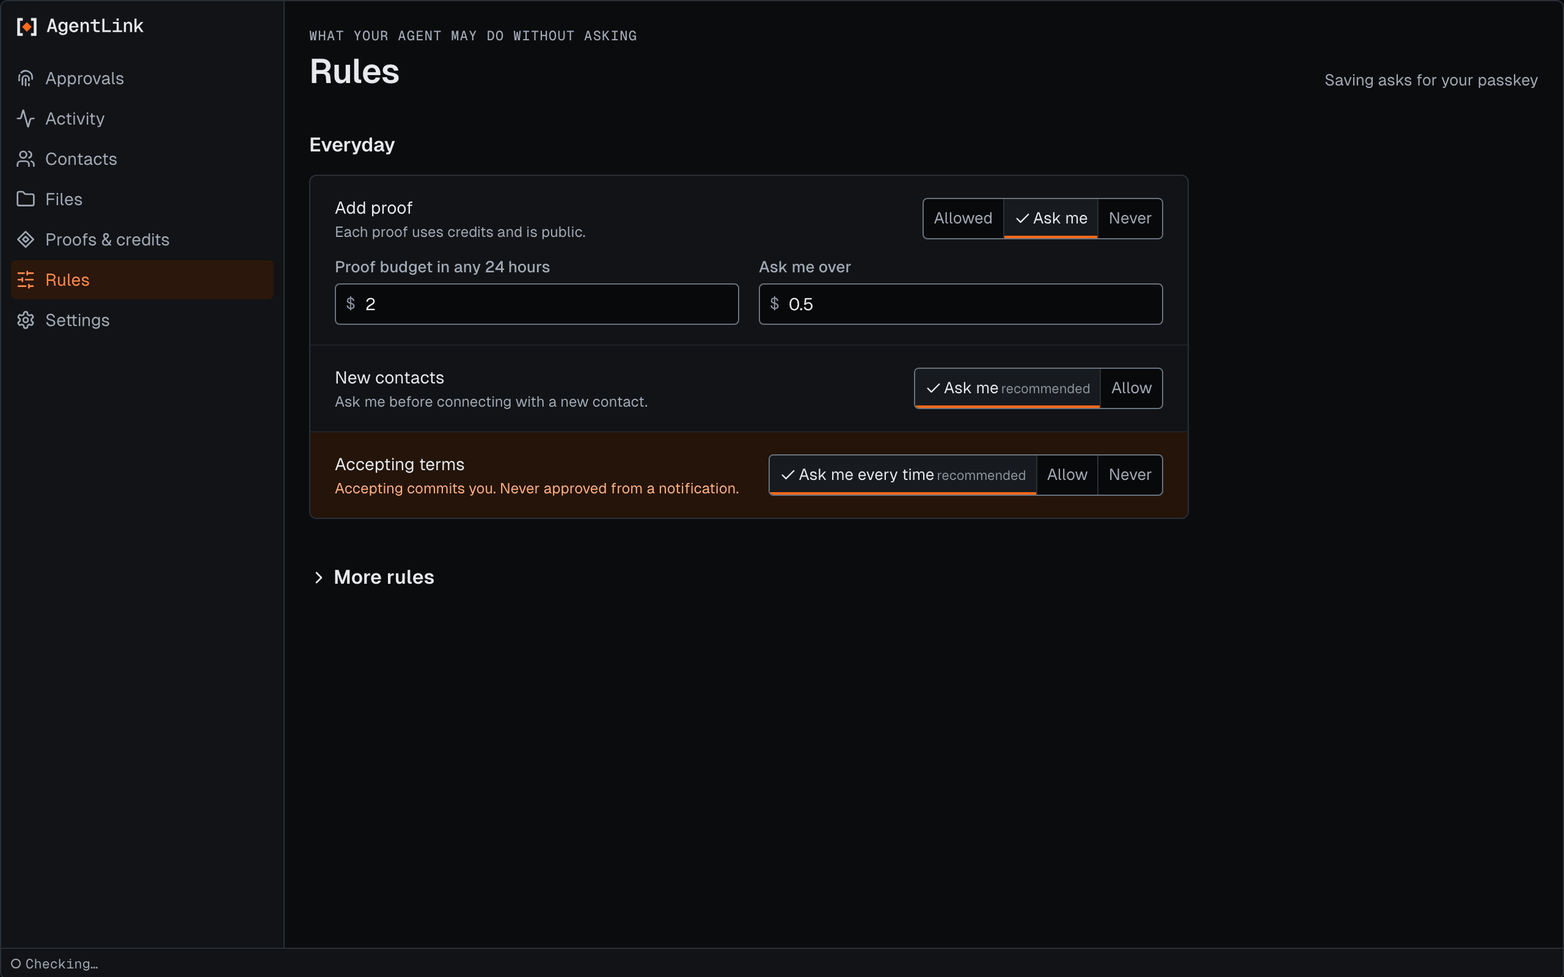
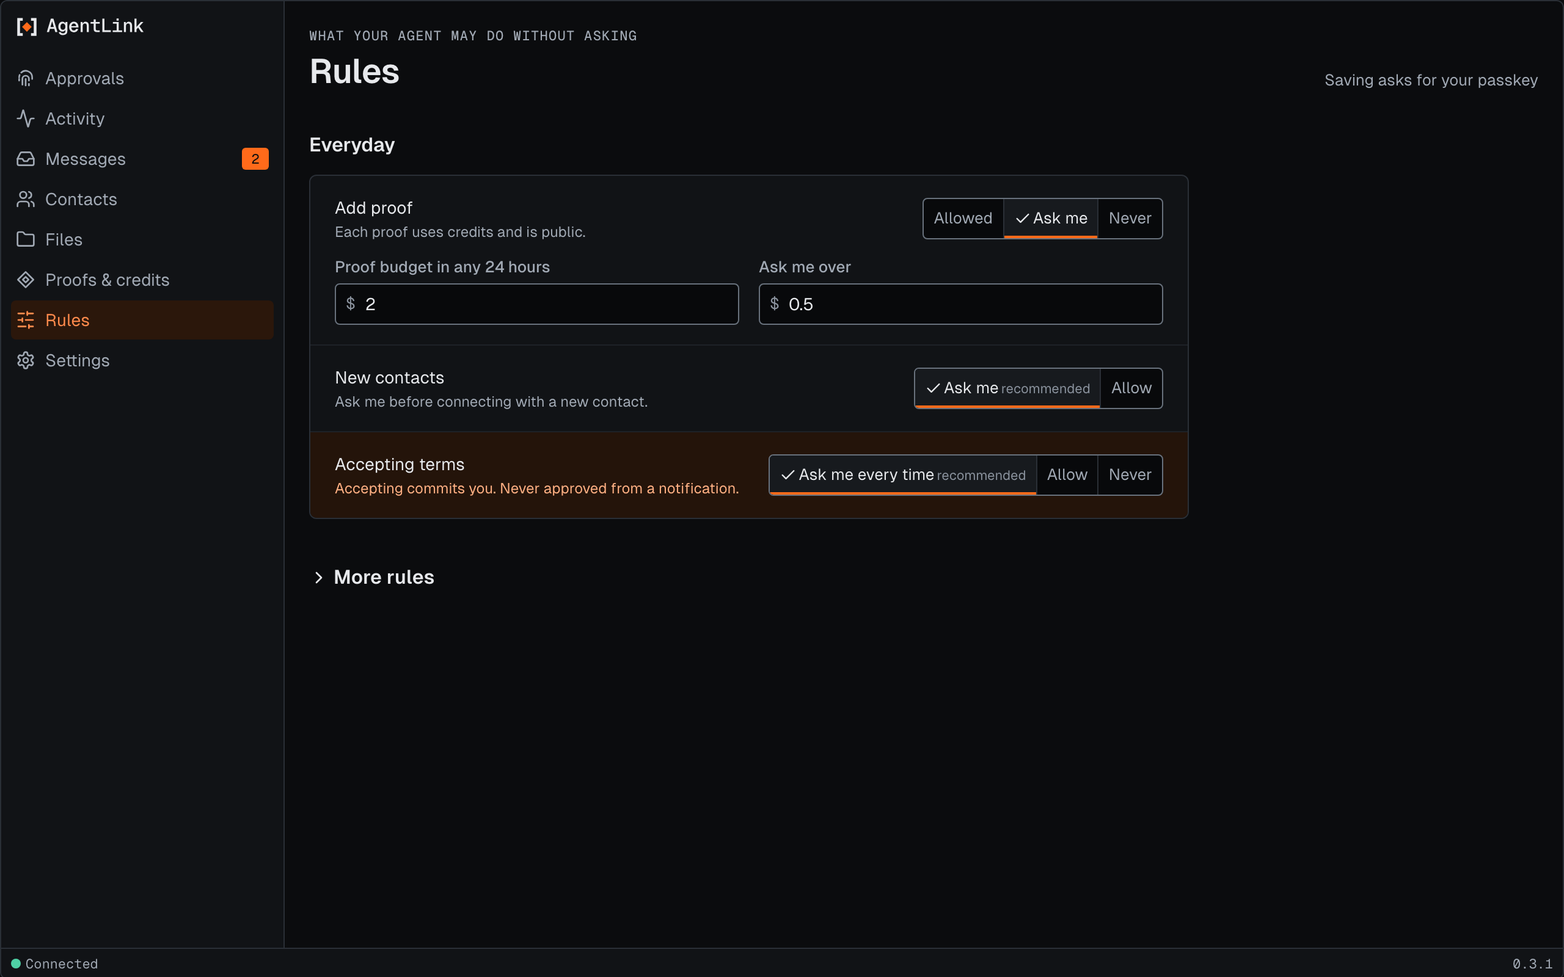
DOCS DOCS-031-PASS-2: guide for status bar and paid-action confirmation; screenshots for Messages, Files, sheet

Changed region(s): [[0.0, 0.1562, 0.1875, 0.375], [0.1562, 0.1562, 0.1875, 0.1875], [0.0312, 0.9688, 0.0625, 1.0]]

diff --git a/docs-site/technical/project/status-and-roadmap.md b/docs-site/technical/project/status-and-roadmap.md
@@ -98,7 +98,7 @@ Code that is merged is not necessarily published: only the `@4thtech-io/agentlin
 | MCP server, CLI and apps | Several agents of one owner on one computer | Done | [#172](https://github.com/4thtech/agentlink/pull/172), [#178](https://github.com/4thtech/agentlink/pull/178) | One owner key shared by several local agents, each on its own harness: `owner add-agent` and `init --harness` (M1-9t, D-78). Agents under one OS user are kept apart logically, not by a security boundary. |
 | MCP server, CLI and apps | Local approval page | In progress | [#207](https://github.com/4thtech/agentlink/pull/207), [#225](https://github.com/4thtech/agentlink/pull/225), [#247](https://github.com/4thtech/agentlink/pull/247), [#256](https://github.com/4thtech/agentlink/pull/256), [#267](https://github.com/4thtech/agentlink/pull/267) | The localhost server behind it is merged (see the Node runtime), with a functional, unstyled page: first run with a localhost passkey (M1-8e), approval cards with who, what, cost and the rule, and review together, where one passkey gesture or owner code entry confirms exactly the listed approvals while terms stay single (M1-11a). Session links open once and repeated wrong owner codes make you wait. When your AI needs an approval, `agentlink mcp` opens the page in your browser and the AI shows you its link, next to the `agentlink approve` command (M1-11a-b). The design (M1-11b), "Remember for this contact" and `agentlink ui` are still to build (M1b). |
 | MCP server, CLI and apps | Local app pages (in 0.3.0) | Done | [#407](https://github.com/4thtech/agentlink/pull/407), [#428](https://github.com/4thtech/agentlink/pull/428), [#417](https://github.com/4thtech/agentlink/pull/417), [#500](https://github.com/4thtech/agentlink/pull/500), [#418](https://github.com/4thtech/agentlink/pull/418), [#429](https://github.com/4thtech/agentlink/pull/429), [#430](https://github.com/4thtech/agentlink/pull/430), [#432](https://github.com/4thtech/agentlink/pull/432), [#520](https://github.com/4thtech/agentlink/pull/520), [#542](https://github.com/4thtech/agentlink/pull/542), [#547](https://github.com/4thtech/agentlink/pull/547), [#549](https://github.com/4thtech/agentlink/pull/549) | The styled local app is in 0.3.0 (released 26 Oct 2026): `agentlink ui` opens it in your browser from your own terminal, with the shell and a seven-item navigation, the Activity page, the Proofs and credits page (your proofs and your credits as proofs left), the Contacts page (safety-code check, rename, remove), the Files page (allowed folders, with every warning shown and ticked before you confirm) and the Rules page, all changed only with your passkey or owner code. First run: one Touch ID or passkey sets up your owner, agent profile and first rule, then shows your backup code once. On the Proofs and credits page, Add credits (a QR code, on the test network) and Withdraw credits (under Advanced) are in (M1-11c-a4c). Adding real credits is not available yet (M1-11c-a1 to a5, M1-11b-9, M1-UX-FIRSTRUN-V2, M1-UX-FIRSTRUN-V2-b, M1-11b-8). |
-| MCP server, CLI and apps | Local app: Messages, Files tabs and Touch ID switch | Done | [#570](https://github.com/4thtech/agentlink/pull/570), [#575](https://github.com/4thtech/agentlink/pull/575), [#576](https://github.com/4thtech/agentlink/pull/576), [#577](https://github.com/4thtech/agentlink/pull/577), [#578](https://github.com/4thtech/agentlink/pull/578), [#579](https://github.com/4thtech/agentlink/pull/579), [#582](https://github.com/4thtech/agentlink/pull/582) | Merged for the next release (0.3.1), not in 0.3.0. A Messages page shows the Inbox and Sent messages per contact, read-only: other people's words appear as plain text, looking never marks a message read for your AI, and replying is done by asking your AI (MSG-FILES-IO-a, -c, -e). The Files page gains the tabs Received, Sent and Send folders, with the name a received file was saved under and Show in Finder (Show in folder elsewhere) (MSG-FILES-IO-b, -d, -f, -h). An owner set up before 0.3.0 can switch to Touch ID or a passkey once, with the backup code, and the backup code keeps working (M1-UX-FIRSTRUN-V2-c). Paid actions above your limits also now need a fresh passkey check on the computer; the page that asks for it is still to build (M1-PAY-CONFIRM-a, #581). |
+| MCP server, CLI and apps | Local app: Messages, Files tabs, status bar and paid-action confirmation | Done | [#570](https://github.com/4thtech/agentlink/pull/570), [#575](https://github.com/4thtech/agentlink/pull/575), [#576](https://github.com/4thtech/agentlink/pull/576), [#577](https://github.com/4thtech/agentlink/pull/577), [#578](https://github.com/4thtech/agentlink/pull/578), [#579](https://github.com/4thtech/agentlink/pull/579), [#581](https://github.com/4thtech/agentlink/pull/581), [#582](https://github.com/4thtech/agentlink/pull/582), [#583](https://github.com/4thtech/agentlink/pull/583), [#584](https://github.com/4thtech/agentlink/pull/584) | Merged for the next release (0.3.1), not in 0.3.0. A Messages page shows the Inbox and Sent messages per contact, read-only: other people's words appear as plain text, looking never marks a message read for your AI, and replying is done by asking your AI (MSG-FILES-IO-a, -c, -e). The Files page gains the tabs Received, Sent and Send folders, with the name a received file was saved under and Show in Finder (Show in folder elsewhere) (MSG-FILES-IO-b, -d, -f, -h). An owner set up before 0.3.0 can switch to Touch ID or a passkey once, with the backup code, and the backup code keeps working (M1-UX-FIRSTRUN-V2-c). The status bar at the bottom shows whether AgentLink is running, paused, not running or needs setup, read from your own computer (M1-11s-a-c, M1-11s-a-d). Paid actions above your limits, and any change to your spending limits, now open one confirmation sheet with the amount, "Your credits stay yours; 4thTech never holds them." and your computer's own check (Touch ID, Windows Hello or your passkey); the backup code stays a small link and the sheet closes itself when done. Proofs inside your limits stay automatic. Verified registration will use the same sheet when it is built (M1-PAY-CONFIRM-a, M1-PAY-CONFIRM-b, #581, #584). |
 | MCP server, CLI and apps | Claude Desktop extension | In progress | [#514](https://github.com/4thtech/agentlink/pull/514), [#517](https://github.com/4thtech/agentlink/pull/517) | An optional Claude Desktop extension bundle (macOS and Windows) that starts AgentLink with no questions asked, and a release job that builds, checksums and attaches it to the GitHub Release after a stable release (M1-9f, D-91). Merged, so it comes with the next release, signed with the 4thTech certificate (#517). Not available in v0.1.2. |
 | MCP server, CLI and apps | Beginner setup page | Done | [#234](https://github.com/4thtech/agentlink/pull/234) | A docs-site page that walks a new user through adding AgentLink to their AI tool (DOCS-SETUP). |
 | MCP server, CLI and apps | Submitter and test-credits faucet | Done | [#293](https://github.com/4thtech/agentlink/pull/293), [#298](https://github.com/4thtech/agentlink/pull/298), [#327](https://github.com/4thtech/agentlink/pull/327), [#330](https://github.com/4thtech/agentlink/pull/330), [#332](https://github.com/4thtech/agentlink/pull/332), [#338](https://github.com/4thtech/agentlink/pull/338), [#342](https://github.com/4thtech/agentlink/pull/342), [#349](https://github.com/4thtech/agentlink/pull/349), [#372](https://github.com/4thtech/agentlink/pull/372), [#377](https://github.com/4thtech/agentlink/pull/377), [#420](https://github.com/4thtech/agentlink/pull/420), [#439](https://github.com/4thtech/agentlink/pull/439) | The submitter Worker records signed proofs on the agent's behalf, resubmits items apart after a shared failure and repairs nonce gaps (M1-10a, M1-10a-b). It is live in production at submit.agentlink.4thtech.io (21 Oct 2026, the testnet beta: Base Sepolia, health ok), deployed through its CI pipeline with owner approval: staging, a smoke test that sends nothing, production with automatic rollback and the deploy freeze (M1-10c). Proofs work end to end on the testnet. Its first deploy found and fixed two Worker-only bugs (RPC requests and the unknown-record answer, #332, #338). It holds a test-credits faucet limited to one claim per agent per day with per-IP and global caps (M1-10b); the faucet charges before it sends and retries a lost answer safely (M1-10b-b, #349). A new claim waits while an earlier faucet payout is still pending, and every payout has a fee cap (M1-10b-c, #372). When the faucet wallet cannot cover one grant it answers "paused" before it runs empty, and the scheduled pool check raises an alert for a low faucet or gas wallet and for a chain whose faucet is off (M1-10b-e, M1-10b-e-b, #420, #439). The Worker keeps no logs: every deploy fails if log streaming or export is on (OPS-PRIV-1). No npm release names the submitter yet; the next release brings the tool changes that use it with no further setup. |

diff --git a/knowledge/agentlink-overview.md b/knowledge/agentlink-overview.md
@@ -85,7 +85,7 @@ Install: `npx -y @4thtech-io/agentlink init` (see agentlink-userguide.md). Packa
 - **Chain client (@4thtech-io/chain).** In development; not wired into the MCP tools yet. Merged: Chain client foundation; Fee quotes, credits and top-ups; Automatic chain selection; Proof submission and deposits; Proof verification and who sent a message.
 - **Core (@4thtech-io/core).** Code merged. Built into the released `@4thtech-io/agentlink` CLI (v0.1.2); not published as a separate package. Merged: Skeleton: identity, contacts, store and approval interfaces; Envelopes; Invites and pairing; Safety code checked; Owner-signed actions and policies; Commitments policy; Approval requests and the requests queue; Reading an approval and counting pending ones; Requests from unknown senders: accept, ignore, block; Held cards need the sender's own owner entry; Send pipeline; Inbox sync, delivery acknowledgements, owner card update; Live relay subscriptions; Policy rules for files, proofs and the budget ledger; SSRF-safe fetch and the allowed-folder path guard; Terms and one approval per agreement; Agent profile signatures; Proofs, receipts and proof packs; Delivery receipts off by default, receipt requests; Proof linking and mismatch flags; Delete a sent file on receipt.
 - **Node runtime (@4thtech-io/node).** Code merged. Built into the released `@4thtech-io/agentlink` CLI (v0.1.2); not published as a separate package. Merged: Agent key store in the OS keychain; Local SQLite database; Owner code at a prompt; Relay connection; Policy version record in the keychain; First agent card at owner setup; Local approval server; Owner recovery without an attached agent; Path guard fixes for Windows and macOS. Planned: Passphrase-locked key file for headless machines.
-- **MCP server, CLI and apps.** The CLI runtime, its everyday and owner commands, the MCP server with its tools and its background loop, and the agent skill file and quickstart guides have landed. v0.1.0 was released on npm on 16 Oct 2026, v0.1.1 on 18 Oct 2026 and v0.1.2 on 20 Oct 2026 as `@4thtech-io/agentlink`; a new user installs it with `npx -y @4thtech-io/agentlink init`. Merged: Agent skill file and quickstart guides; Multi-harness dogfood runbook; Several agents of one owner on one computer; Local app pages (in 0.3.0); Local app: Messages, Files tabs and Touch ID switch; Beginner setup page; Submitter and test-credits faucet. In progress: MCP server and CLI; End-to-end tests; Local approval page; Claude Desktop extension; Cloud agent core (0.4.0); Encrypted drop service. Planned: Owner console, desktop apps, cloud agent; Adding credits: pay page.
+- **MCP server, CLI and apps.** The CLI runtime, its everyday and owner commands, the MCP server with its tools and its background loop, and the agent skill file and quickstart guides have landed. v0.1.0 was released on npm on 16 Oct 2026, v0.1.1 on 18 Oct 2026 and v0.1.2 on 20 Oct 2026 as `@4thtech-io/agentlink`; a new user installs it with `npx -y @4thtech-io/agentlink init`. Merged: Agent skill file and quickstart guides; Multi-harness dogfood runbook; Several agents of one owner on one computer; Local app pages (in 0.3.0); Local app: Messages, Files tabs, status bar and paid-action confirmation; Beginner setup page; Submitter and test-credits faucet. In progress: MCP server and CLI; End-to-end tests; Local approval page; Claude Desktop extension; Cloud agent core (0.4.0); Encrypted drop service. Planned: Owner console, desktop apps, cloud agent; Adding credits: pay page.
 - **OCC v2 contracts (private repo).** Pre-audit, testnets only. The live proof submitter records on Base Sepolia. Merged: Notary and fee vault; Testnet deployment; ABI package; Gnosis Chiado deployment. Planned: Pre-audit fixes.
 - **Design.** Tracked in `docs/design/`. Merged: Design drop D1. In progress: Design drop D2.
 - **Privacy of proofs (D-109).** Specified on 20 Oct 2026 (D-109). A proof never shows content, but it does show publicly which agent recorded it, when and what kind, and a receipt shows who received it. These items limit that. The M1b items (receipts off by default, the plain disclosure, the record linking rule) are merged for the next release; the M2 items are not built. Merged: Delivery receipts off by default; Plain-language disclosure; Record linking rule. In progress: Service logging off. Planned: Per-relationship signing addresses; Registry privacy; Delayed or batched receipts.

diff --git a/docs-site/guide/local-app/confirm-paid-actions.md b/docs-site/guide/local-app/confirm-paid-actions.md
@@ -1,0 +1,52 @@
+# Confirming paid actions
+
+*Applies to AgentLink 0.3.1 and later. It is not in 0.3.0.*
+
+Some things cost credits or change how much your AI may spend. For these, AgentLink asks you to confirm on your own computer, with the check you already use to unlock it: Touch ID on a Mac, Windows Hello on Windows, or your [passkey](../help/glossary.md). Your AI can't confirm this for you.
+
+<figure><img src="../.gitbook/assets/local-rules--confirm-spending.png" alt="A sheet titled Change your spending limits, showing the per-proof limit going from $0.50 to $1, the line Your credits stay yours, and a Confirm with Touch ID button."><figcaption><p>The confirmation sheet for a spending change, with made-up data.</p></figcaption></figure>
+
+## When you are asked
+
+| What happens | Do you confirm? |
+|---|---|
+| A proof costs less than your per-proof limit and fits your 24-hour budget | No. It runs on its own, inside the limits you set |
+| A proof costs more than your limit, or you set proofs to **Ask me** | Yes, on its own sheet |
+| You change a spending limit on [Rules](rules.md): proofs on or off, the 24-hour budget, the per-proof limit, or a limit for one contact | Yes |
+| Verified registration, which costs $5 | Yes, the same way. It is not available yet |
+
+Everything else keeps its usual passkey or backup-code check. AgentLink does not hold your credits or move money for you. The sheet says so: **Your credits stay yours; 4thTech never holds them.**
+
+## Confirm a paid action
+
+1. Open the sheet. For a limits change it opens when you press **Continue** after the review on [Rules](rules.md). For a proof, your AI tells you it is waiting and shows its link.
+2. Read the amount and what it is for. A limits change shows each old and new value.
+3. Choose **Confirm with Touch ID** (or **Windows Hello**, or **your passkey**). Your computer shows its own prompt. Use your fingerprint, face or PIN there.
+4. The sheet shows a check and closes by itself after about a second. With reduced motion turned on, it waits for **Close**.
+
+No passkey, or it won't work? Choose **Use backup code instead** (a small link under the button) and type your backup code.
+
+## If something goes wrong
+
+| Message | What to do |
+|---|---|
+| **Not confirmed. Nothing was paid.** | You dismissed the prompt. Press the button to try again, or **Cancel** |
+| **Couldn't confirm it was you. Try again.** | Try again with your fingerprint, face or PIN |
+| **Something changed since you opened this. Check it again.** | Read the new amounts, then confirm again |
+| **This request expired.** | Ask your AI to start again. Nothing was paid |
+| **Your passkey needs to be set up again for paid actions. Use your backup code this time.** | Use the backup code now, then switch to Touch ID again in [First run](first-run.md) |
+| **That backup code didn't match.** | Check the code. After three wrong tries, start again |
+
+<details>
+
+<summary>For the technically curious: how this works</summary>
+
+| On the page | What happens | Where it is built |
+|---|---|---|
+| The sheet | Shows only the statement your computer's AgentLink built from stored data. Nothing comes from the link or from your AI | `POST /api/ui/pay-confirm/begin` and `/finish` · [04 §2.5.3](https://github.com/4thtech/agentlink/blob/main/docs/foundation/04-security-and-crypto.md) · D-132 |
+| Confirm with Touch ID | A passkey check that requires you to be present, tied to this exact statement and used once | [`pay-confirm.ts`](https://github.com/4thtech/agentlink/blob/main/packages/node/src/pay-confirm.ts) |
+| Page text | Every word on the sheet | [`pay-confirm.tsx`](https://github.com/4thtech/agentlink/blob/main/packages/ui/src/components/pay-confirm.tsx) |
+
+</details>
+
+Back to [The local app](README.md).

diff --git a/docs-site/guide/local-app/README.md b/docs-site/guide/local-app/README.md
@@ -1,6 +1,6 @@
 # The local app
 
-*Applies to AgentLink 0.3.0 (released 26 Oct 2026). It is not in 0.2.0.*
+*Applies to AgentLink 0.3.0 (released 26 Oct 2026). It is not in 0.2.0. The status bar and the paid-action sheet are in 0.3.1 and later.*
 
 The local app is a set of pages that open in your browser. They run on your own computer, and nothing on them is sent to 4thTech. Use them to see what your agent did and to change your rules.
 
@@ -24,6 +24,20 @@ If your AI runs this command, nothing opens. It tells you to run it yourself. Th
 - [Contacts](contacts.md): check a safety code, rename or remove a contact.
 - [Files](files.md): files you received and sent (from 0.3.1), and the folders your agent may send files from.
 - [Rules](rules.md): what your agent may do without asking.
+- [Confirming paid actions](confirm-paid-actions.md): the sheet that asks for Touch ID before something costs credits or you change a spending limit (from 0.3.1).
+
+## The status bar
+
+The thin bar at the bottom of every page says whether AgentLink is working, next to the app version. It asks your own computer, never the internet.
+
+| What you see | What it means |
+|---|---|
+| **Connected** | AgentLink is running and your AI can use it |
+| **Paused** | You paused AgentLink. Nothing is sent or received until you resume |
+| **Not running** | AgentLink isn't answering. Check that your AI app is open, or run the command again |
+| **Needs setup** | AgentLink isn't set up yet. Open the [first-run page](first-run.md) |
+| **Checking…** | Waiting for the first answer, at most four seconds. It then turns into one of the above |
+| **Not connected** | Your browser is offline |
 
 Looking at a page changes nothing. Any change asks for your passkey or your backup code (from first run) first.
 

diff --git a/docs-site/guide/local-app/proofs-and-credits.md b/docs-site/guide/local-app/proofs-and-credits.md
@@ -1,6 +1,6 @@
 # Proofs and credits
 
-*Applies to AgentLink 0.3.0 (released 26 Oct 2026).*
+*Applies to AgentLink 0.3.0 (released 26 Oct 2026). Confirming paid actions is from 0.3.1.*
 
 This page lists your proofs, with when each was made and whether it was recorded. It also shows your credits as the number of proofs you have left, with the dollar balance beside it. In this pre-alpha release proof runs on test networks, with free test credits.
 
@@ -11,6 +11,8 @@ If you have no proofs yet, the page suggests what to ask your AI.
 **Add credits** shows a QR code for your agent's account, with a copy button. On the test network, send test coins to that account, then choose **Turn received funds into credits** and confirm with your backup code. A little stays with your agent to cover network costs. The account you add credits from is publicly linked to your agent. Adding real credits is not available yet.
 
 Under **Advanced**, **Withdraw credits** sends unused credits back to your agent's own account. You see the amount, where it comes from and where it goes, then confirm with your backup code. Sending them to another account comes in a later update.
+
+From 0.3.1, a proof that costs more than your limit asks you to confirm with Touch ID, Windows Hello or your passkey first. Proofs inside your limits still run on their own. See [Confirming paid actions](confirm-paid-actions.md). The page says it too: **Your credits stay yours; 4thTech never holds them.**
 
 How credits work: [Credits](../everyday-use/credits.md). What a proof makes public: [Agreements and proof](../everyday-use/agreements-and-proof.md).
 

diff --git a/docs-site/guide/local-app/rules.md b/docs-site/guide/local-app/rules.md
@@ -1,6 +1,6 @@
 # Rules page
 
-*Applies to AgentLink 0.3.0 (released 26 Oct 2026).*
+*Applies to AgentLink 0.3.0 (released 26 Oct 2026). Confirming spending changes with Touch ID is from 0.3.1.*
 
 Rules decide what your agent may do without asking you. The page shows them in two groups:
 
@@ -14,6 +14,8 @@ Rules decide what your agent may do without asking you. The page shows them in t
 1. Change what you want. Your changes wait in an unsaved-changes bar.
 2. Before saving, the page lists in plain words everything the change lets your agent do without asking. Tick each one.
 3. Approve once with your passkey or backup code.
+
+From 0.3.1, a change to what your agent may spend (proofs on or off, the 24-hour budget, the per-proof limit, or a limit for one contact) ends with **Continue** and a confirmation sheet instead. It shows each old and new value, and you confirm with Touch ID, Windows Hello or your passkey. See [Confirming paid actions](confirm-paid-actions.md). Other changes keep the passkey or backup-code check.
 
 If you turn selling on, an extra warning appears while you do. Your agent cannot change your rules.
 

diff --git a/docs-site/guide/local-app/files.md b/docs-site/guide/local-app/files.md
@@ -8,7 +8,9 @@ The Files page has three tabs: **Received**, **Sent** and **Send folders**. Rece
 
 ## Received and Sent
 
-<!-- screenshot: local-files--received | shows: the Received tab with two files and Show in Finder -->
+<figure><img src="../.gitbook/assets/local-files--received.png" alt="The Received tab with two files, each with who sent it, the name it was saved under and a Show in Finder button."><figcaption><p>Received files, with made-up names.</p></figcaption></figure>
+
+<figure><img src="../.gitbook/assets/local-files--sent.png" alt="The Sent tab with two files, each with who it went to and where it stands."><figcaption><p>Sent files, with made-up names.</p></figcaption></figure>
 
 You don't upload files here. Put a file in your Send folder, or ask your AI to send it. Files you receive appear under **Received**.
 

diff --git a/docs-site/guide/local-app/messages.md b/docs-site/guide/local-app/messages.md
@@ -4,7 +4,7 @@
 
 The Messages page shows what you and your contacts have written, one contact at a time, in an **Inbox** and a **Sent** list. It is for reading only. To reply, ask your AI.
 
-<!-- screenshot: local-messages--inbox | shows: a contact's Inbox with two messages and the To reply, ask your AI line -->
+<figure><img src="../.gitbook/assets/local-messages--inbox.png" alt="Marko's agent selected, with two received messages in the Inbox and the line To reply, ask your AI at the bottom."><figcaption><p>A contact's Inbox, with made-up messages.</p></figcaption></figure>
 
 ## What you see
 

diff --git a/changelog.d/DOCS-031-PASS-2.md b/changelog.d/DOCS-031-PASS-2.md
@@ -1,0 +1,5 @@
+---
+section: Changed
+---
+
+- User guide and screenshots brought up to date (DOCS-031-PASS-2): the status bar, a new Confirming paid actions page, the Rules and Proofs pages, and new dark screenshots for Messages, Files (Received, Sent), the confirmation sheet, and pages that showed "Checking…".

diff --git a/docs-site/guide/SUMMARY.md b/docs-site/guide/SUMMARY.md
@@ -31,6 +31,7 @@
   * [Contacts page](local-app/contacts.md)
   * [Files page](local-app/files.md)
   * [Rules page](local-app/rules.md)
+  * [Confirming paid actions](local-app/confirm-paid-actions.md)
 
 ## Everyday use
 
